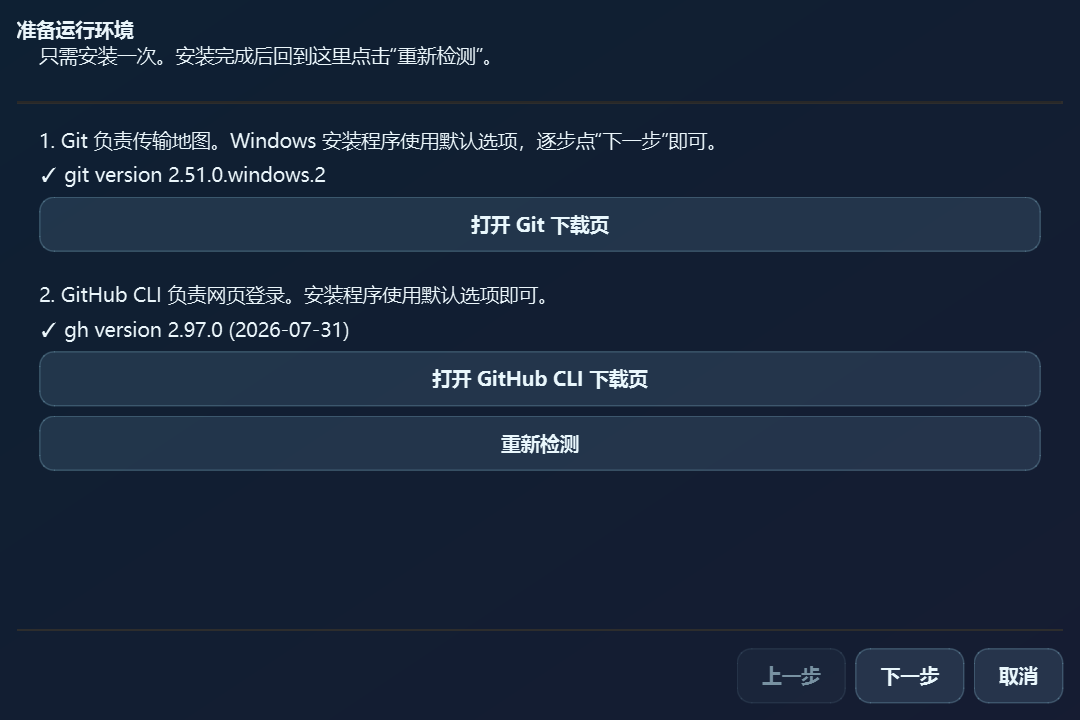
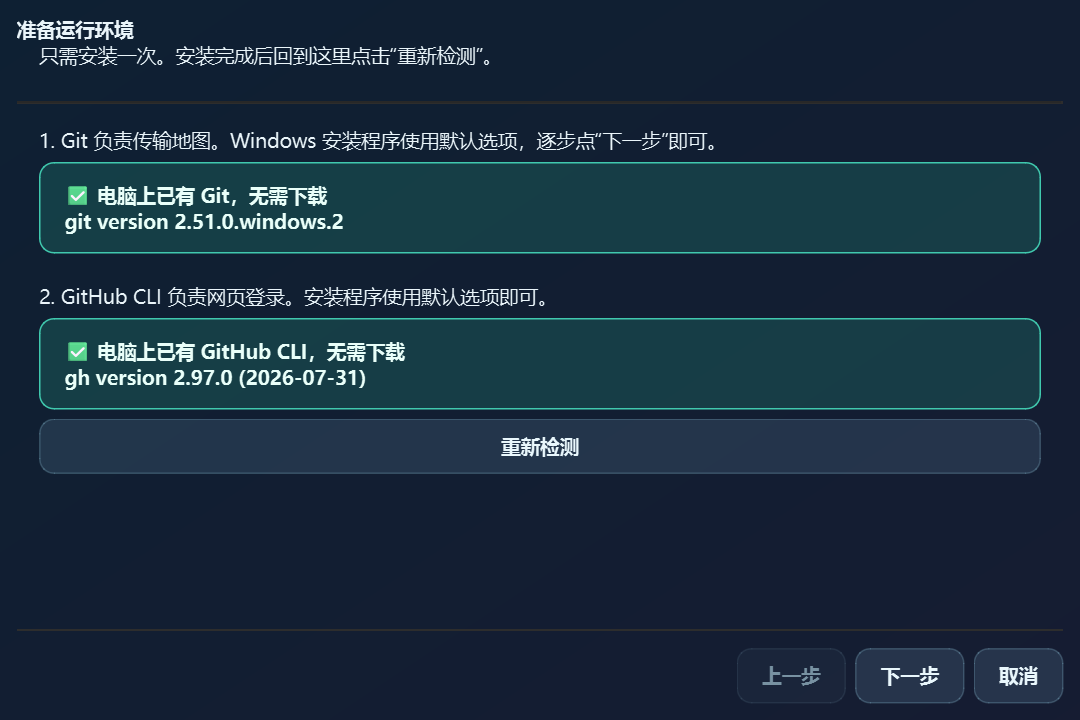
Fix: clarify setup checks and show full map timestamps (#3)

Changed region(s): [[0.0306, 0.3972, 0.9778, 0.6722], [0.0306, 0.2139, 0.9778, 0.3667]]

diff --git a/ui/setup_wizard.py b/ui/setup_wizard.py
@@ -18,6 +18,21 @@ from setup_services import (
 from tool_paths import find_executable
 from ui.theme import apply_glass_backdrop
 
+GITHUB_DEVICE_URL = "https://github.com/login/device"
+
+
+def _set_detection_status(label: QLabel, installed: bool, title: str, detail: str):
+    if installed:
+        label.setText(f"✅ 电脑上已有 {title}，无需下载\n{detail}")
+        label.setStyleSheet("QLabel { background: rgba(39, 170, 142, 55); "
+                            "border: 1px solid #40C9AE; border-radius: 10px; "
+                            "padding: 12px; color: #E9FFF9; font-weight: 600; }")
+    else:
+        label.setText(f"❌ 尚未安装 {title}\n{detail}")
+        label.setStyleSheet("QLabel { background: rgba(194, 104, 90, 50); "
+                            "border: 1px solid #D48679; border-radius: 10px; "
+                            "padding: 12px; color: #FFECE8; font-weight: 600; }")
+
 
 class RequirementsPage(QWizardPage):
     def __init__(self):
@@ -30,15 +45,15 @@ class RequirementsPage(QWizardPage):
         self.gh_status = QLabel()
         layout.addWidget(QLabel("1. Git 负责传输地图。Windows 安装程序使用默认选项，逐步点“下一步”即可。"))
         layout.addWidget(self.git_status)
-        git_link = QPushButton("打开 Git 下载页")
-        git_link.clicked.connect(lambda: QDesktopServices.openUrl(QUrl(GIT_DOWNLOAD_URL)))
-        layout.addWidget(git_link)
+        self.git_link = QPushButton("打开 Git 下载页")
+        self.git_link.clicked.connect(lambda: QDesktopServices.openUrl(QUrl(GIT_DOWNLOAD_URL)))
+        layout.addWidget(self.git_link)
         layout.addSpacing(14)
         layout.addWidget(QLabel("2. GitHub CLI 负责网页登录。安装程序使用默认选项即可。"))
         layout.addWidget(self.gh_status)
-        gh_link = QPushButton("打开 GitHub CLI 下载页")
-        gh_link.clicked.connect(lambda: QDesktopServices.openUrl(QUrl(GH_DOWNLOAD_URL)))
-        layout.addWidget(gh_link)
+        self.gh_link = QPushButton("打开 GitHub CLI 下载页")
+        self.gh_link.clicked.connect(lambda: QDesktopServices.openUrl(QUrl(GH_DOWNLOAD_URL)))
+        layout.addWidget(self.gh_link)
         recheck = QPushButton("重新检测")
         recheck.clicked.connect(self.refresh)
         layout.addWidget(recheck)
@@ -48,8 +63,10 @@ class RequirementsPage(QWizardPage):
     def refresh(self):
         git_ok, git_message = check_git_installation()
         gh_ok, gh_message = check_github_cli()
-        self.git_status.setText(("✓ " if git_ok else "✗ ") + git_message)
-        self.gh_status.setText(("✓ " if gh_ok else "✗ ") + gh_message)
+        _set_detection_status(self.git_status, git_ok, "Git", git_message)
+        _set_detection_status(self.gh_status, gh_ok, "GitHub CLI", gh_message)
+        self.git_link.setVisible(not git_ok)
+        self.gh_link.setVisible(not gh_ok)
         self._ready = git_ok and gh_ok
         self.completeChanged.emit()
 
@@ -63,6 +80,8 @@ class LoginPage(QWizardPage):
         self.setTitle("登录 GitHub")
         self.setSubTitle("点击网页登录；验证码会自动复制到剪贴板，无需配置 SSH 密钥。")
         self._ready = False
+        self._login_output = ""
+        self._continued_login = False
         layout = QVBoxLayout(self)
         self.status = QLabel("等待检测")
         layout.addWidget(self.status)
@@ -70,6 +89,9 @@ class LoginPage(QWizardPage):
         self.login_button = QPushButton("打开浏览器登录")
         self.login_button.clicked.connect(self.start_login)
         buttons.addWidget(self.login_button)
+        self.browser_button = QPushButton("重新打开登录页面")
+        self.browser_button.clicked.connect(self.open_login_browser)
+        buttons.addWidget(self.browser_button)
         self.check_button = QPushButton("重新检测登录")
         self.check_button.clicked.connect(self.refresh)
         buttons.addWidget(self.check_button)
@@ -113,14 +135,25 @@ class LoginPage(QWizardPage):
         self._ready = False
         self.completeChanged.emit()
         self.output.clear()
-        self.status.setText("正在打开浏览器；验证码已请求复制到剪贴板…")
+        self._login_output = ""
+        self._continued_login = False
+        self.status.setText("正在启动网页登录；稍后可在浏览器中粘贴验证码…")
         self.login_button.setEnabled(False)
         self.login_process.start(gh, ["auth", "login", "--hostname", "github.com",
                                       "--git-protocol", "https", "--web", "--clipboard"])
+        self.open_login_browser()
+
+    def open_login_browser(self):
+        if not QDesktopServices.openUrl(QUrl(GITHUB_DEVICE_URL)):
+            self.status.setText(f"浏览器未能自动打开，请手动访问 {GITHUB_DEVICE_URL}")
 
     def _read_login_output(self):
         data = bytes(self.login_process.readAllStandardOutput()).decode("utf-8", errors="replace")
         self.output.insertPlainText(data)
+        self._login_output = (self._login_output + data)[-1000:]
+        if not self._continued_login and "press enter" in self._login_output.lower():
+            self._continued_login = True
+            self.login_process.write(b"\n")
 
     def _login_finished(self, _exit_code, _status):
         self._read_login_output()

diff --git a/tests/test_setup_wizard.py b/tests/test_setup_wizard.py
@@ -5,15 +5,66 @@ from unittest.mock import patch
 
 os.environ["QT_QPA_PLATFORM"] = "offscreen"
 
-from PySide6.QtCore import QEventLoop, QTimer
+from PySide6.QtCore import QEventLoop, QProcess, QTimer
 from PySide6.QtWidgets import QApplication
-from ui.setup_wizard import SetupWizard
+from ui.setup_wizard import LoginPage, RequirementsPage, SetupWizard
 
 
 class SetupWizardTests(unittest.TestCase):
     @classmethod
     def setUpClass(cls):
         cls.app = QApplication.instance() or QApplication([])
+
+    def test_installed_tools_are_explicitly_marked_as_not_needing_download(self):
+        with patch("ui.setup_wizard.check_git_installation", return_value=(True, "git 2.51")):
+            with patch("ui.setup_wizard.check_github_cli", return_value=(True, "gh 2.97")):
+                page = RequirementsPage()
+        self.assertIn("电脑上已有 Git，无需下载", page.git_status.text())
+        self.assertIn("电脑上已有 GitHub CLI，无需下载", page.gh_status.text())
+        self.assertTrue(page.git_link.isHidden())
+        self.assertTrue(page.gh_link.isHidden())
+
+    def test_login_button_opens_default_browser_and_starts_cli(self):
+        page = LoginPage()
+
+        class FakeProcess:
+            def __init__(self):
+                self.started = None
+
+            def state(self):
+                return QProcess.ProcessState.NotRunning
+
+            def start(self, program, args):
+                self.started = (program, args)
+
+        fake = FakeProcess()
+        page.login_process = fake
+        with patch("ui.setup_wizard.find_executable", return_value="gh"):
+            with patch("ui.setup_wizard.QDesktopServices.openUrl", return_value=True) as open_url:
+                page.start_login()
+        self.assertEqual(fake.started[0], "gh")
+        self.assertIn("--web", fake.started[1])
+        self.assertTrue(open_url.called)
+        self.assertEqual(open_url.call_args.args[0].toString(), "https://github.com/login/device")
+
+    def test_login_cli_enter_prompt_is_answered_automatically(self):
+        page = LoginPage()
+
+        class FakeProcess:
+            def __init__(self):
+                self.writes = []
+
+            def readAllStandardOutput(self):
+                return b"Press Enter to open github.com in your browser..."
+
+            def write(self, data):
+                self.writes.append(data)
+
+        fake = FakeProcess()
+        page.login_process = fake
+        page._read_login_output()
+        page._read_login_output()
+        self.assertEqual(fake.writes, [b"\n"])
 
     def test_repository_is_checked_before_setup_is_complete(self):
         with tempfile.TemporaryDirectory() as directory:

diff --git a/ui/remote_panel.py b/ui/remote_panel.py
@@ -3,7 +3,7 @@
 from pathlib import Path
 
 from PySide6.QtWidgets import (
-    QWidget, QVBoxLayout, QGroupBox, QTreeWidget, QTreeWidgetItem,
+    QWidget, QVBoxLayout, QGroupBox, QHeaderView, QTreeWidget, QTreeWidgetItem,
     QPushButton, QHBoxLayout, QMessageBox,
 )
 from PySide6.QtCore import Signal, Qt
@@ -25,9 +25,13 @@ class RemotePanel(QGroupBox):
 
         self.tree = QTreeWidget()
         self.tree.setHeaderLabels(["地图 / 版本", "时间", "状态"])
-        self.tree.setColumnWidth(0, 240)
-        self.tree.setColumnWidth(1, 100)
-        self.tree.setColumnWidth(2, 120)
+        header = self.tree.header()
+        header.setStretchLastSection(False)
+        header.setSectionResizeMode(0, QHeaderView.ResizeMode.Stretch)
+        header.setSectionResizeMode(1, QHeaderView.ResizeMode.Fixed)
+        header.setSectionResizeMode(2, QHeaderView.ResizeMode.Fixed)
+        self.tree.setColumnWidth(1, 220)
+        self.tree.setColumnWidth(2, 84)
         self.tree.setAlternatingRowColors(False)
         self.tree.setRootIsDecorated(True)
         self.tree.currentItemChanged.connect(self._selection_changed)

diff --git a/tests/test_panels.py b/tests/test_panels.py
@@ -5,6 +5,7 @@ from unittest.mock import patch
 os.environ["QT_QPA_PLATFORM"] = "offscreen"
 
 from PySide6.QtWidgets import QApplication, QMessageBox
+from PySide6.QtWidgets import QHeaderView
 from ui.local_panel import LocalPanel
 from ui.remote_panel import RemotePanel
 
@@ -26,6 +27,17 @@ class PanelSelectionTests(unittest.TestCase):
                                      "bak": None, "bak2": None}]})
         self.assertEqual(panel.tree.currentItem().data(0, 1), "20260802120000Map.wld")
         self.assertTrue(panel.download_btn.isEnabled())
+
+    def test_remote_time_column_has_room_for_full_timestamp(self):
+        panel = RemotePanel()
+        panel.resize(860, 600)
+        panel.show()
+        self.app.processEvents()
+        header = panel.tree.header()
+        self.assertEqual(header.sectionResizeMode(0), QHeaderView.ResizeMode.Stretch)
+        self.assertGreaterEqual(panel.tree.columnWidth(1), 210)
+        self.assertLessEqual(panel.tree.columnWidth(2), 100)
+        panel.close()
 
     def test_selected_map_uploads_with_one_button_click(self):
         panel = LocalPanel()

diff --git a/README.md b/README.md
@@ -13,8 +13,8 @@
 ## 第一次使用
 
 1. 从 [Releases](../../releases) 下载 `TerrariaMapSync.exe`，双击启动。程序是单文件窗口应用，不需要安装 Python，也不会弹出控制台。
-2. 首次启动会自动打开使用向导。它会检测 **Git** 和 **GitHub CLI**；缺少时，点击向导里的官方下载链接，使用安装程序的默认选项完成安装，然后点“重新检测”。
-3. 点击“打开浏览器登录”，在 GitHub 页面完成授权。一次性验证码由 GitHub CLI 复制到剪贴板；返回向导点击“重新检测登录”。应用使用 HTTPS 和 GitHub CLI 登录，**不需要生成或配置 SSH 密钥**。
+2. 首次启动会自动打开使用向导。它会检测 **Git** 和 **GitHub CLI**；已安装时明确显示“无需下载”，缺少时提供官方下载链接。使用安装程序的默认选项完成安装，然后点“重新检测”。
+3. 点击“打开浏览器登录”，程序会直接打开默认浏览器中的 GitHub 授权页面。一次性验证码由 GitHub CLI 复制到剪贴板；授权后返回向导点击“重新检测登录”。如浏览器未出现，可以点击“重新打开登录页面”。应用使用 HTTPS 和 GitHub CLI 登录，**不需要生成或配置 SSH 密钥**。
 4. 选择 Terraria 的 `Worlds` 文件夹，填入地图仓库地址，例如 `https://github.com/owner/TerrariaMaps.git`，点击“检测仓库连接”。成功后点“完成”。
 
 还没有地图仓库时，可以在向导里打开 GitHub 的新建仓库页面。建议创建 **Private** 仓库、勾选初始化 README，并在仓库设置中邀请朋友为协作者。每位朋友在自己的电脑上运行一次向导，填写同一个仓库地址。
